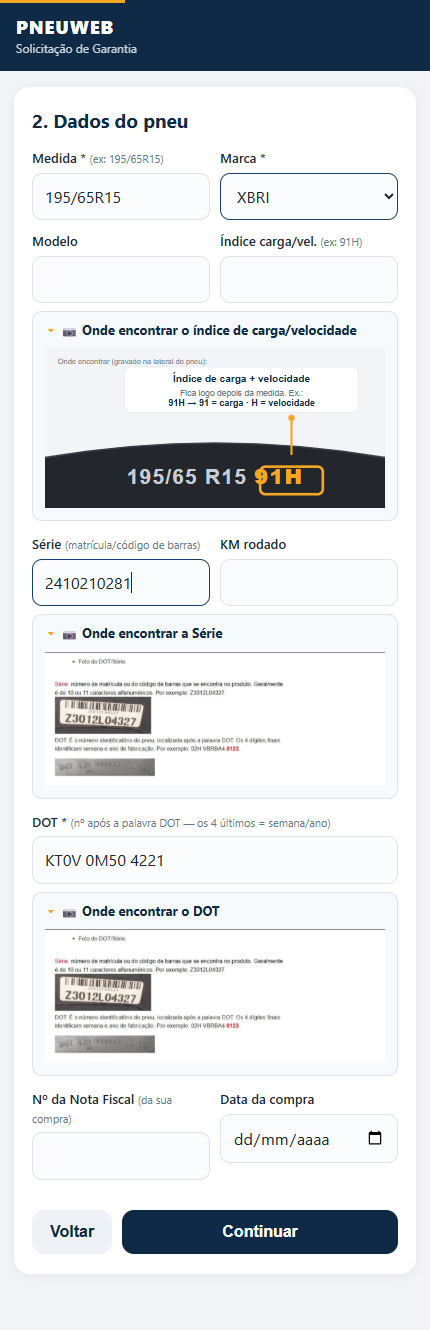
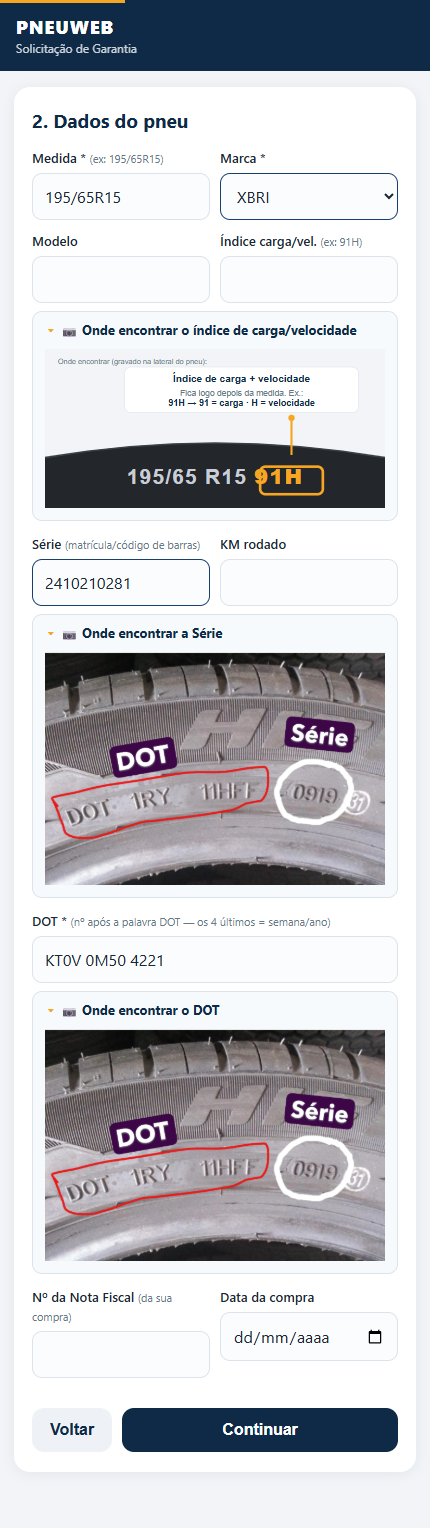
backend envia direto (do email do Flavio -> fornecedor); modo rascunho opcional

diff --git a/app.js b/app.js
@@ -290,7 +290,7 @@
       .then(function (res) {
         overlay(false);
         if (res && res.ok) {
-          $('#fim-msg').textContent = 'Seus dados chegaram na Pneuweb e o formulário do fabricante já está montado. Nossa equipe vai revisar e dar andamento na garantia. Fica de olho no seu telefone/e-mail!';
+          $('#fim-msg').textContent = 'Sua solicitação foi enviada com o formulário e as fotos para análise da garantia. Nossa equipe acompanha o retorno. Fica de olho no seu telefone/e-mail!';
         } else {
           $('#fim-msg').textContent = 'Recebemos, mas houve um aviso no processamento. Nossa equipe foi notificada. Se quiser, guarde uma cópia do formulário abaixo.';
           addDownloadLink(fapBlob, data);